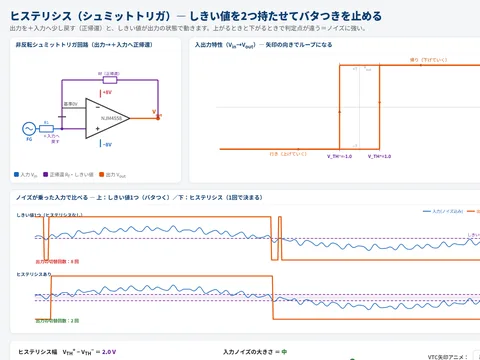
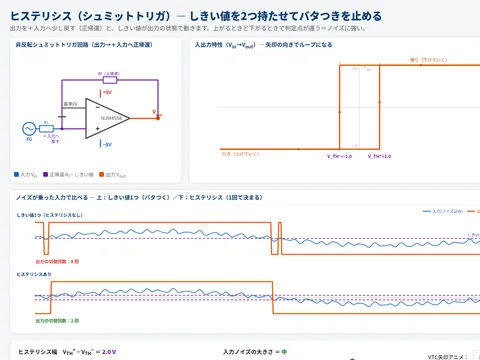
fix: シーソーの比喩を「高さ＝電圧」に統一し、ラベルの重なりを解消
- opamp_virtual_short: 見出しを「シーソーの自動バランス」から
  「電圧のシーソー（支点＝−入力を0Vに保つ）」へ。図が「支点＝−入力・
  両端＝Vin/Vout」のてこなのに、文言だけ「いつも水平」（両入力を
  両端に乗せる別の絵）のままだった
- comparator_basic: V_ref のラベルを波形より後に描く。先に描いていたので
  t=0 の出力立ち上がり（縦線）に塗り潰されていた
- comparator_hysteresis: しきい値ラベル（しきい値1つ・V_TH±）も同じ理由で
  入力の青線に隠れていたため、波形より後に描く
- index: comparator_balance のカード名を「天秤のアナロジー」から
  「シーソーのアナロジー」へ（教材側の統一に合わせる）
- 変更した5本のサムネイルを再生成

Claude-Session: https://claude.ai/code/session_017U7wY6jmmTQTaFFVDSNVcp

diff --git a/kairo/opamp_virtual_short.html b/kairo/opamp_virtual_short.html
@@ -3,7 +3,7 @@
 <head>
 <meta charset="UTF-8">
 <meta name="viewport" content="width=device-width, initial-scale=1.0">
-<title>仮想短絡＝シーソーの自動バランス（反転増幅）</title>
+<title>仮想短絡＝電圧のシーソー（反転増幅）</title>
 <style>
   :root{
     --in:#1565C0;      /* 入力・Vin・−入力 */
@@ -61,8 +61,8 @@
 </head>
 <body>
 <div class="wrap">
-  <h1>仮想短絡＝シーソーの自動バランス</h1>
-  <p class="sub">反転増幅回路：OPアンプは「2本の入力が同じ高さ（同じ電圧）」になるよう、出力を猛烈に素早く自動調整する。だから −入力 は + 入力（ここでは0V）と同じに見える＝仮想短絡。</p>
+  <h1>仮想短絡＝電圧のシーソー（支点＝−入力を0Vに保つ）</h1>
+  <p class="sub">反転増幅回路：梁の高さが電圧、支点が −入力。OPアンプは出力側の高さを猛烈に素早く動かして、支点を ＋入力（ここでは0V）と同じ高さに保つ＝仮想短絡。</p>
 
   <div class="tabs">
     <button class="tab active" data-mode="ideal">① 理想動作（仮想短絡と利得）</button>
@@ -73,7 +73,7 @@
 
   <div class="stage">
     <div class="panel">
-      <h2><span class="dot" style="background:var(--head)"></span>シーソー：いつも水平に保とうとする</h2>
+      <h2><span class="dot" style="background:var(--head)"></span>シーソー：支点（−入力）を0Vに保つ</h2>
       <svg id="seesaw" viewBox="0 0 460 320" aria-label="シーソー図"></svg>
     </div>
     <div class="panel">
@@ -123,76 +123,73 @@ const $ = id => document.getElementById(id);
 
 // ====== 計算 ======
 function compute(){
-  const a = gain * bwLoss;
-  let videal = a * (vin + Voff);
+  const ratio = Math.abs(gain);     // Rf/Rin
+  const a = gain * bwLoss;          // 信号に対する利得（③では帯域で目減りする）
+  // 入力オフセット Voff は「＋入力と−入力の電位差」なので、信号の利得ではなく
+  // ノイズゲイン (1+Rf/Rin) 倍されて、同符号で出力に現れる。
+  let videal = a * vin + (1 + ratio) * Voff;
   let vout = videal, clipped = false;
-  let vminus;
-  if(mode==="ideal"){
-    // 理想モードは飽和を適用しない（仮想短絡と利得の素直な対応だけを見せる）。
-    // 範囲設計上 vout はレール内に収まる。−入力は常に0V。
-    vminus = 0;
-  } else {
-    // ②③：レール飽和を適用
+  if(mode!=="ideal"){
+    // ②③：レール飽和を適用（①は仮想短絡と利得の対応だけを見せるので飽和させない）
     if(vout > RAIL){ vout = RAIL; clipped = true; }
     if(vout < -RAIL){ vout = -RAIL; clipped = true; }
-    if(clipped){
-      // 飽和時：仮想短絡が破れ、−入力が0Vからずれる（帰還点の電位を簡略表示）
-      // 節点電位 ≈ Vin と Vout を Rin:Rf で分圧した点（A=-Rf/Rin より Rf/Rin=|a|）
-      const ratio = Math.abs(gain); // Rf/Rin
-      vminus = (vin*ratio + vout) / (ratio + 1);
-    } else {
-      vminus = Voff; // 仮想短絡：+入力(0V)に対しオフセット分だけずれる
-    }
   }
-  return {a, videal, vout, clipped, vminus};
+  // −入力ノードの電位は抵抗2本の分圧そのもの（OPアンプの状態によらず常に成り立つ）。
+  // 理想動作では Vout=−(Rf/Rin)·Vin なので、この式はちょうど 0V を返す。
+  const vminus = (vin*ratio + vout) / (ratio + 1);
+  return {a, ratio, videal, vout, clipped, vminus};
 }
 
 // ====== シーソー描画 ======
 function drawSeesaw(s){
-  const cx=230, cy=170, halfLen=150;     // 支点と腕の長さ
-  // 傾き角：Vinの符号で傾けて「自動で水平へ戻る」を見せる。
-  // 理想＝即座に水平（傾き≈0）。飽和＝戻しきれず傾いたまま。
-  let tilt; // ラジアン、左下がり正
-  if(mode==="ideal"){ tilt = s.clipped?0:0; }
-  if(mode==="clip"){ tilt = s.clipped ? (s.vout>0? -0.16 : 0.16) : 0; }
-  if(mode==="real"){ tilt = Voff*0.05; } // わずかに傾く
-  // 描画ヘルパ
-  const lx = cx - halfLen*Math.cos(tilt), ly = cy + halfLen*Math.sin(tilt);
-  const rx = cx + halfLen*Math.cos(tilt), ry = cy - halfLen*Math.sin(tilt);
-  // 入力側(左)＝Vin、出力側(右)＝Vout の重り
+  // 電圧のシーソー（てこ）。梁の高さ＝電圧。
+  //   左端＝Vin ／ 支点＝−入力ノード ／ 右端＝Vout
+  // 支点は抵抗の内分点（左端から Rin/(Rin+Rf)）に置く。梁を左右の実電圧で
+  // 引けば、支点の高さは自動的に −入力の電位に一致する（分圧そのものだから）。
+  // したがって「支点が0Vのまま＝仮想短絡」「支点が浮く＝仮想短絡が破れる」が
+  // 図の上でそのまま読める。梁を水平に描くのは誤り（両端の電圧が違うため）。
+  const XL=70, XR=400, y0=158, K=17;      // 0V線の高さ／1V あたりの px
+  const XP = XL + (XR-XL)/(1+s.ratio);    // 支点＝Rin:Rf の内分点
+  const Y = v => y0 - K*v;
+  const yl=Y(vin), yr=Y(s.vout), yp=Y(s.vminus);
   const inLabel = (vin>=0?"+":"")+vin.toFixed(2)+"V";
   const outLabel = (s.vout>=0?"+":"")+s.vout.toFixed(2)+"V";
-  let extra="";
+  const vmLabel = (s.vminus>=0?"+":"")+s.vminus.toFixed(2)+"V";
+  let extra="", pivCol="#0D3C6E";
   if(mode==="clip" && s.clipped){
-    extra=`<text x="230" y="40" text-anchor="middle" font-size="14" fill="#b00020" font-weight="800">傾いたまま！ 出力がレールで止まり、水平に戻せない</text>`;
+    pivCol="#b00020";
+    extra=`<text x="230" y="26" text-anchor="middle" font-size="14" fill="#b00020" font-weight="800">支点が浮いたまま！ 出力がレールで止まり、戻せない</text>`;
+  } else if(mode==="ideal"){
+    extra=`<text x="230" y="26" text-anchor="middle" font-size="14" fill="#2E7D32" font-weight="800">支点は0Vのまま → −入力 ＝ +入力(0V)＝仮想短絡</text>`;
+  } else if(mode==="real"){
+    extra=`<text x="230" y="26" text-anchor="middle" font-size="13.5" fill="#0D3C6E" font-weight="700">オフセットの分だけ、支点が0Vからずれる</text>`;
+  } else {
+    extra=`<text x="230" y="26" text-anchor="middle" font-size="14" fill="#2E7D32" font-weight="800">支点は0Vのまま＝仮想短絡が成り立っている</text>`;
   }
-  if(mode==="ideal"){
-    extra=`<text x="230" y="40" text-anchor="middle" font-size="14" fill="#2E7D32" font-weight="800">いつも水平 → −入力 ＝ +入力(0V)＝仮想短絡</text>`;
-  }
-  if(mode==="real"){
-    extra=`<text x="230" y="40" text-anchor="middle" font-size="13.5" fill="#0D3C6E" font-weight="700">入力オフセットの分だけ、ほんの少し傾いた水平</text>`;
-  }
+  // 支点の注記は梁の下へ（左に寄りすぎたときだけ右へ逃がす）
+  const labX = Math.max(XP, 96);
   return `
   <rect x="0" y="0" width="460" height="320" fill="#fff"/>
   ${extra}
-  <!-- 水平の基準線 -->
-  <line x1="60" y1="${cy}" x2="400" y2="${cy}" stroke="#cfd6de" stroke-dasharray="5 5" stroke-width="1.5"/>
-  <text x="406" y="${cy+4}" font-size="11" fill="#9aa3ad">水平=0V</text>
+  <!-- 0Vの基準線 -->
+  <line x1="50" y1="${y0}" x2="410" y2="${y0}" stroke="#cfd6de" stroke-dasharray="5 5" stroke-width="1.5"/>
+  <text x="424" y="${y0+4}" font-size="11" fill="#9aa3ad">0V</text>
+  <!-- 腕（先に描き、支点と重りを上に載せる） -->
+  <line x1="${XL}" y1="${yl}" x2="${XR}" y2="${yr}" stroke="#3a4654" stroke-width="7" stroke-linecap="round"/>
   <!-- 支点（三角・仮想短絡点） -->
-  <polygon points="${cx},${cy} ${cx-16},${cy+30} ${cx+16},${cy+30}" fill="#0D3C6E"/>
-  <text x="${cx}" y="${cy+48}" text-anchor="middle" font-size="11.5" fill="#0D3C6E" font-weight="700">支点＝仮想短絡点（−入力）</text>
-  <!-- 腕 -->
-  <line x1="${lx}" y1="${ly}" x2="${rx}" y2="${ry}" stroke="#3a4654" stroke-width="7" stroke-linecap="round"/>
+  <polygon points="${XP},${yp} ${XP-13},${yp+26} ${XP+13},${yp+26}" fill="${pivCol}"/>
+  <text x="${labX}" y="${yp+44}" text-anchor="middle" font-size="11.5" fill="${pivCol}" font-weight="700">支点＝−入力 ${vmLabel}</text>
+  <text x="${labX}" y="${yp+59}" text-anchor="middle" font-size="10.5" fill="#7a8590">支点の位置＝Rin:Rf＝1:${s.ratio}</text>
   <!-- 左の重り：Vin -->
-  <circle cx="${lx}" cy="${ly}" r="20" fill="#1565C0"/>
-  <text x="${lx}" y="${ly-28}" text-anchor="middle" font-size="12" fill="#1565C0" font-weight="800">入力側</text>
-  <text x="${lx}" y="${ly+5}" text-anchor="middle" font-size="12" fill="#fff" font-weight="800">${inLabel}</text>
+  <circle cx="${XL}" cy="${yl}" r="19" fill="#1565C0"/>
+  <text x="${XL}" y="${yl-27}" text-anchor="middle" font-size="12" fill="#1565C0" font-weight="800">入力側</text>
+  <text x="${XL}" y="${yl+5}" text-anchor="middle" font-size="11.5" fill="#fff" font-weight="800">${inLabel}</text>
   <!-- 右の重り：Vout -->
-  <circle cx="${rx}" cy="${ry}" r="20" fill="#E65100"/>
-  <text x="${rx}" y="${ry-28}" text-anchor="middle" font-size="12" fill="#E65100" font-weight="800">出力側</text>
-  <text x="${rx}" y="${ry+5}" text-anchor="middle" font-size="11.5" fill="#fff" font-weight="800">${outLabel}</text>
-  <!-- 自動調整の矢印 -->
-  <text x="${rx}" y="${ry+ (s.vout>=0?42:-40)}" text-anchor="middle" font-size="11" fill="#E65100">↕ 自動調整</text>
+  <circle cx="${XR}" cy="${yr}" r="19" fill="#E65100"/>
+  <text x="${XR}" y="${yr-27}" text-anchor="middle" font-size="12" fill="#E65100" font-weight="800">出力側</text>
+  <text x="${XR}" y="${yr+5}" text-anchor="middle" font-size="11.5" fill="#fff" font-weight="800">${outLabel}</text>
+  <!-- 自動調整の矢印（出力側は常に円の下へ。上に置くと「出力側」の文字と重なる） -->
+  <text x="${XR}" y="${yr+34}" text-anchor="middle" font-size="11" fill="#E65100">↕ 自動調整</text>
   `;
 }
 
@@ -253,7 +250,7 @@ function drawCircuit(s){
   <text x="${outX}" y="140" text-anchor="middle" font-size="12" fill="#E65100" font-weight="800">Vout</text>
   <!-- 数値ボックス -->
   <rect x="300" y="240" width="150" height="62" rx="9" fill="#fff7f0" stroke="#E65100" stroke-width="1.5"/>
-  <text x="375" y="260" text-anchor="middle" font-size="12" fill="#444">Vout = A · Vin</text>
+  <text x="375" y="260" text-anchor="middle" font-size="12" fill="#444">${mode==="real" ? "Vout（オフセット込み）" : "Vout = A · Vin"}</text>
   <text x="375" y="282" text-anchor="middle" font-size="15" fill="#E65100" font-weight="800">${(s.vout>=0?"+":"")+s.vout.toFixed(2)} V</text>
   <text x="375" y="297" text-anchor="middle" font-size="10.5" fill="#7a8590">A=${aTxt}, Vin=${(vin>=0?"+":"")+vin.toFixed(2)}V</text>
   `;
@@ -285,13 +282,14 @@ function noteText(s){
   if(mode==="clip"){
     return `理想式では Vout=${s.videal.toFixed(2)}V ですが、出力は電源レール（ここでは ±${RAIL}V）より外へは出られません。`
       +(s.clipped
-        ?`<b>いまレールに張り付いています（${s.vout.toFixed(2)}V）。</b>こうなると出力をこれ以上動かせず、シーソーを水平に戻せない＝<b>仮想短絡が破れます</b>。`
+        ?`<b>いまレールに張り付いています（${s.vout.toFixed(2)}V）。</b>こうなると出力をこれ以上動かせず、支点（−入力）を0Vに戻せない＝<b>仮想短絡が破れます</b>。`
         :`Vinを大きくして A·Vin が ±${RAIL}V を超えると張り付きます。`)
       +`実機ではこの飽和を「波形の頭が平らに潰れる」形で必ず観察します。`;
   }
   // real
-  return `現実のNJM4558は理想と少しずれます。<b>入力オフセット電圧</b>のせいで Vin=0 でも出力がわずかにずれ、`
-    +`<b>有限の帯域</b>のせいで入力が速くなる（高周波）ほど利得が落ちます（いまの利得係数 ${bwLoss.toFixed(2)}）。`
+  return `現実のNJM4558は理想と少しずれます。<b>入力オフセット電圧</b>（ここでは ${(Voff*1000).toFixed(0)}mV）は`
+    +`信号の利得ではなく <b>(1+Rf/Rin)=${(1+s.ratio)}倍</b> されて出力に現れるので、Vin=0 でも出力が ${((1+s.ratio)*Voff).toFixed(2)}V ずれます。`
+    +`さらに<b>有限の帯域</b>のせいで、入力が速くなる（高周波）ほど信号の利得が落ちます（いまの利得係数 ${bwLoss.toFixed(2)}）。`
     +`このズレを「つまずき」でなく「測って考える対象」として実験で確かめます。`;
 }
 
@@ -311,8 +309,8 @@ function render(){
 
 // ====== モード切替 ======
 const modeLines = {
-  ideal:"スライダーでVinを動かすと、シーソーは即座に水平へ。−入力は常に0Vに見え、Voutは抵抗比で決まります。",
-  clip:"Vinを大きく振ってみてください。理想式の出力がレール(±"+RAIL+"V)を超えると、出力が張り付いて水平に戻せなくなります。",
+  ideal:"スライダーでVinを動かすと、梁は傾いても支点は0Vのまま。−入力は常に0Vに見え、Voutは抵抗比で決まります。",
+  clip:"Vinを大きく振ってみてください。理想式の出力がレール(±"+RAIL+"V)を超えると、出力が張り付いて支点を0Vに戻せなくなります。",
   real:"理想からのズレ（オフセット・帯域）。Vin=0でも出力が少しずれ、速い入力ほど利得が落ちます。"
 };
 document.querySelectorAll(".tab").forEach(t=>{

diff --git a/kairo/opamp_noninverting.html b/kairo/opamp_noninverting.html
@@ -130,50 +130,73 @@ function compute(){
   return {a, videal, vout, clipped, vminus};
 }
 
-// シーソー：水平基準=0V。支点(=−入力)が Vin の高さへ持ち上がり、両端も Vin にそろう＝水平のまま上下動。
+// 電圧のシーソー（てこ）。反転増幅の図と同じ描き方に揃えてある。
+//   左端＝Rin の下端（GND・0V） ／ 支点＝−入力ノード ／ 右端＝Vout
+// 支点は抵抗の内分点（左端から Rin/(Rin+Rf)＝1/A）に置く。梁を左端0Vと右端Vout
+// で引けば、支点の高さは自動的に −入力の電位になる。仮想短絡が効いていれば
+// それが Vin と一致し、飽和すると Vin に届かなくなる。
+// ※ 支点と両端に同じ「−入力」を割り当てるのは誤り（支点だけが−入力）。
 function drawSeesaw(s){
-  const cx=230, baseY=190, halfLen=150;
-  const scale=70; // V→px
-  // 支点の高さ = −入力電位（理想ではVin）。バーは水平（両入力が同電位）。
-  const pivotY = baseY - s.vminus*scale;
-  // 飽和時は両端が等しくならない（−入力≠＋入力）→バーを少し傾ける
-  let tilt=0;
-  if(s.clipped){ tilt = (vin - s.vminus)*0.06; }
-  const ly = pivotY + halfLen*Math.sin(tilt);
-  const ry = pivotY - halfLen*Math.sin(tilt);
-  const lx = cx - halfLen*Math.cos(tilt);
-  const rx = cx + halfLen*Math.cos(tilt);
-  const plusLabel = (vin>=0?"+":"")+vin.toFixed(2)+"V";
-  const minusLabel = (s.vminus>=0?"+":"")+s.vminus.toFixed(2)+"V";
-  let head;
-  if(mode==="ideal"||mode==="follower"){
-    head=`<text x="230" y="34" text-anchor="middle" font-size="13.5" fill="#2E7D32" font-weight="800">−入力 ＝ ＋入力 ＝ Vin（支点ごと持ち上がる）</text>`;
-  } else {
-    head= s.clipped
-      ?`<text x="230" y="34" text-anchor="middle" font-size="13.5" fill="#b00020" font-weight="800">飽和：−入力が Vin に届かない＝仮想短絡が破れる</text>`
-      :`<text x="230" y="34" text-anchor="middle" font-size="13.5" fill="#2E7D32" font-weight="800">−入力 ＝ ＋入力 ＝ Vin</text>`;
+  const XL=70, XR=400, y0=190, K=17;      // 0V線の高さ／1V あたりの px
+  const rf = s.a - 1;                      // Rf/Rin（A=1+Rf/Rin）
+  const Y = v => y0 - K*v;
+  const yl=Y(0), yr=Y(s.vout), yvin=Y(vin);
+  const XP = XL + (XR-XL)/(1+rf);          // 支点＝Rin:Rf の内分点（フォロワは右端）
+  const yp = Y(s.vminus);
+  const outLabel = (s.vout>=0?"+":"")+s.vout.toFixed(2)+"V";
+  const vmLabel = (s.vminus>=0?"+":"")+s.vminus.toFixed(2)+"V";
+
+  if(mode==="follower"){
+    // Rf=0・Rin なし＝てこが働かない。出力も−入力も Vin と同じ高さで水平。
+    return `
+    <rect x="0" y="0" width="460" height="320" fill="#fff"/>
+    <text x="230" y="34" text-anchor="middle" font-size="13.5" fill="#2E7D32" font-weight="800">Rf=0 → てこが働かず、出力＝−入力＝Vin（利得1）</text>
+    <line x1="50" y1="${y0}" x2="410" y2="${y0}" stroke="#cfd6de" stroke-dasharray="5 5" stroke-width="1.5"/>
+    <text x="424" y="${y0+4}" font-size="11" fill="#9aa3ad">0V</text>
+    <line x1="${XL}" y1="${yvin}" x2="${XR}" y2="${yvin}" stroke="#3a4654" stroke-width="7" stroke-linecap="round"/>
+    <polygon points="235,${yvin} 222,${yvin+26} 248,${yvin+26}" fill="#0D3C6E"/>
+    <text x="235" y="${yvin+44}" text-anchor="middle" font-size="11.5" fill="#0D3C6E" font-weight="700">支点＝−入力 ${vmLabel}（出力と直結）</text>
+    <circle cx="${XL}" cy="${yvin}" r="19" fill="#D32F2F"/>
+    <text x="${XL}" y="${yvin-27}" text-anchor="middle" font-size="12" fill="#D32F2F" font-weight="800">＋入力</text>
+    <text x="${XL}" y="${yvin+5}" text-anchor="middle" font-size="11.5" fill="#fff" font-weight="800">${(vin>=0?"+":"")+vin.toFixed(2)}V</text>
+    <circle cx="${XR}" cy="${yvin}" r="19" fill="#E65100"/>
+    <text x="${XR}" y="${yvin-27}" text-anchor="middle" font-size="12" fill="#E65100" font-weight="800">出力側</text>
+    <text x="${XR}" y="${yvin+5}" text-anchor="middle" font-size="11.5" fill="#fff" font-weight="800">${outLabel}</text>
+    `;
   }
+
+  let head, pivCol="#0D3C6E", plusLine="";
+  if(s.clipped){
+    pivCol="#b00020";
+    head=`<text x="230" y="34" text-anchor="middle" font-size="13.5" fill="#b00020" font-weight="800">飽和：支点（−入力）が Vin に届かない＝仮想短絡が破れる</text>`;
+    // ＋入力の高さを引いて、支点が届いていないことを見せる
+    plusLine=`<line x1="${XL}" y1="${yvin}" x2="${XR}" y2="${yvin}" stroke="#2E7D32" stroke-dasharray="4 4" stroke-width="1.5"/>
+    <text x="300" y="${yvin + (vin>=0?-7:16)}" text-anchor="middle" font-size="10.5" fill="#2E7D32" font-weight="700">＋入力＝Vin ${(vin>=0?"+":"")+vin.toFixed(2)}V</text>`;
+  } else {
+    head=`<text x="230" y="34" text-anchor="middle" font-size="13.5" fill="#2E7D32" font-weight="800">支点が Vin の高さへ持ち上がる → −入力 ＝ ＋入力 ＝ Vin</text>`;
+  }
+  const labX = Math.max(XP, 100);
   return `
   <rect x="0" y="0" width="460" height="320" fill="#fff"/>
   ${head}
-  <line x1="50" y1="${baseY}" x2="410" y2="${baseY}" stroke="#cfd6de" stroke-dasharray="5 5" stroke-width="1.5"/>
-  <text x="414" y="${baseY+4}" font-size="11" fill="#9aa3ad">0V</text>
-  <!-- 持ち上がり矢印 -->
-  <line x1="60" y1="${baseY}" x2="60" y2="${pivotY}" stroke="#2E7D32" stroke-width="1.5" stroke-dasharray="3 3"/>
-  <text x="70" y="${(baseY+pivotY)/2+4}" font-size="10.5" fill="#2E7D32">Vinの高さ</text>
-  <!-- 支点 -->
-  <polygon points="${cx},${pivotY} ${cx-16},${pivotY+30} ${cx+16},${pivotY+30}" fill="#0D3C6E"/>
-  <text x="${cx}" y="${pivotY+48}" text-anchor="middle" font-size="11.5" fill="#0D3C6E" font-weight="700">支点＝−入力（仮想短絡でVinに一致）</text>
-  <!-- バー -->
-  <line x1="${lx}" y1="${ly}" x2="${rx}" y2="${ry}" stroke="#3a4654" stroke-width="7" stroke-linecap="round"/>
-  <!-- ＋入力側 -->
-  <circle cx="${lx}" cy="${ly}" r="20" fill="#D32F2F"/>
-  <text x="${lx}" y="${ly-28}" text-anchor="middle" font-size="12" fill="#D32F2F" font-weight="800">＋入力</text>
-  <text x="${lx}" y="${ly+5}" text-anchor="middle" font-size="11.5" fill="#fff" font-weight="800">${plusLabel}</text>
-  <!-- −入力側 -->
-  <circle cx="${rx}" cy="${ry}" r="20" fill="#2E7D32"/>
-  <text x="${rx}" y="${ry-28}" text-anchor="middle" font-size="12" fill="#2E7D32" font-weight="800">−入力</text>
-  <text x="${rx}" y="${ry+5}" text-anchor="middle" font-size="11.5" fill="#fff" font-weight="800">${minusLabel}</text>
+  <line x1="50" y1="${y0}" x2="410" y2="${y0}" stroke="#cfd6de" stroke-dasharray="5 5" stroke-width="1.5"/>
+  <text x="424" y="${y0+4}" font-size="11" fill="#9aa3ad">0V</text>
+  ${plusLine}
+  <!-- 梁（先に描き、支点と重りを上に載せる） -->
+  <line x1="${XL}" y1="${yl}" x2="${XR}" y2="${yr}" stroke="#3a4654" stroke-width="7" stroke-linecap="round"/>
+  <!-- 支点＝−入力ノード -->
+  <polygon points="${XP},${yp} ${XP-13},${yp+26} ${XP+13},${yp+26}" fill="${pivCol}"/>
+  <text x="${labX}" y="${yp+44}" text-anchor="middle" font-size="11.5" fill="${pivCol}" font-weight="700">支点＝−入力 ${vmLabel}</text>
+  <text x="${labX}" y="${yp+59}" text-anchor="middle" font-size="10.5" fill="#7a8590">支点の位置＝Rin:Rf＝1:${rf}</text>
+  <!-- 左端＝Rin の下端（GND） -->
+  <circle cx="${XL}" cy="${yl}" r="19" fill="#9E9E9E"/>
+  <text x="${XL}" y="${yl-27}" text-anchor="middle" font-size="12" fill="#7a8590" font-weight="800">Rin下端</text>
+  <text x="${XL}" y="${yl+5}" text-anchor="middle" font-size="11.5" fill="#fff" font-weight="800">GND</text>
+  <!-- 右端＝Vout -->
+  <circle cx="${XR}" cy="${yr}" r="19" fill="#E65100"/>
+  <text x="${XR}" y="${yr-27}" text-anchor="middle" font-size="12" fill="#E65100" font-weight="800">出力側</text>
+  <text x="${XR}" y="${yr+5}" text-anchor="middle" font-size="11.5" fill="#fff" font-weight="800">${outLabel}</text>
+  <text x="${XR}" y="${yr+34}" text-anchor="middle" font-size="11" fill="#E65100">↕ 自動調整</text>
   `;
 }
 

diff --git a/kairo/comparator_hysteresis.html b/kairo/comparator_hysteresis.html
@@ -282,17 +282,18 @@ function drawWave(){
     function Y(v){return mid-(v/RAIL)*yspan;}
     h+=`<line x1="${x0}" y1="${mid}" x2="${x1}" y2="${mid}" stroke="#ddd"/>`;
     h+=`<text x="6" y="${yTop+10}" font-size="11" font-weight="700" fill="#0D3C6E">${title}</text>`;
-    // しきい値線
+    // しきい値線。ラベルは波形より後で描く（先に描くと入力の青線に塗り潰される）
+    let thrLab='';
     if(showThr==='single'){
       h+=`<line x1="${x0}" y1="${Y(0)}" x2="${x1}" y2="${Y(0)}" stroke="#6A1B9A" stroke-width="1.4" stroke-dasharray="6 4"/>`;
-      h+=`<text x="${x1-2}" y="${Y(0)-5}" font-size="10" text-anchor="end" fill="#6A1B9A" paint-order="stroke" stroke="#fff" stroke-width="3.5">しきい値（1つ・0V）</text>`;
+      thrLab+=`<text x="${x1-2}" y="${Y(0)-5}" font-size="10" text-anchor="end" fill="#6A1B9A" paint-order="stroke" stroke="#fff" stroke-width="3.5">しきい値（1つ・0V）</text>`;
     }else{
       h+=`<line x1="${x0}" y1="${Y(tp)}" x2="${x1}" y2="${Y(tp)}" stroke="#6A1B9A" stroke-width="1.4" stroke-dasharray="6 4"/>`;
       h+=`<line x1="${x0}" y1="${Y(tm)}" x2="${x1}" y2="${Y(tm)}" stroke="#6A1B9A" stroke-width="1.4" stroke-dasharray="6 4"/>`;
       // 帯
       h+=`<rect x="${x0}" y="${Y(tp)}" width="${x1-x0}" height="${Y(tm)-Y(tp)}" fill="#6A1B9A" opacity="0.06"/>`;
-      h+=`<text x="${x1-2}" y="${Y(tp)-5}" font-size="10" text-anchor="end" fill="#6A1B9A" paint-order="stroke" stroke="#fff" stroke-width="3.5">V_TH⁺</text>`;
-      h+=`<text x="${x1-2}" y="${Y(tm)+12}" font-size="10" text-anchor="end" fill="#6A1B9A" paint-order="stroke" stroke="#fff" stroke-width="3.5">V_TH⁻</text>`;
+      thrLab+=`<text x="${x1-2}" y="${Y(tp)-5}" font-size="10" text-anchor="end" fill="#6A1B9A" paint-order="stroke" stroke="#fff" stroke-width="3.5">V_TH⁺</text>`;
+      thrLab+=`<text x="${x1-2}" y="${Y(tm)+12}" font-size="10" text-anchor="end" fill="#6A1B9A" paint-order="stroke" stroke="#fff" stroke-width="3.5">V_TH⁻</text>`;
     }
     // 入力
     let pin='';for(let i=0;i<=N;i++)pin+=(i?'L':'M')+X(i/N).toFixed(1)+' '+Y(inp[i]).toFixed(1)+' ';
@@ -300,6 +301,7 @@ function drawWave(){
     // 出力
     let po='';for(let i=0;i<=N;i++)po+=(i?'L':'M')+X(i/N).toFixed(1)+' '+Y(out[i]).toFixed(1)+' ';
     h+=`<path d="${po}" fill="none" stroke="#E65100" stroke-width="2.6"/>`;
+    h+=thrLab;
     // エッジ数
     const ec=countEdges(out);
     const col = (showThr==='single' && ec>2) ? '#D32F2F' : '#2E7D32';

diff --git a/kairo/cmos_measure.html b/kairo/cmos_measure.html
@@ -6,7 +6,7 @@
 <style>body{margin:0;background:#fff;font-family:"Noto Sans CJK JP",sans-serif;}</style>
 </head>
 <body>
-<svg id="fig" xmlns="http://www.w3.org/2000/svg" viewBox="0 0 820 670" width="820" height="670">
+<svg id="fig" xmlns="http://www.w3.org/2000/svg" viewBox="0 0 820 638" width="820" height="638">
   <style>
     .vdd{stroke:#D32F2F;} .nmos{stroke:#2E7D32;} .pmos{stroke:#6A1B9A;}
     .in{stroke:#1565C0;} .mark{stroke:#E65100;} .gnd{stroke:#444;}
@@ -115,12 +115,11 @@
   <line class="wire gnd" x1="366" y1="564" x2="374" y2="564"/>
   <text x="435" y="556" class="small">GND（VSS, pin7 = N基板）　電源①－・電源②－・pin7 をすべて共通</text>
 
-  <!-- 注記は配線帯の外（GND母線より下）へ。回路の縦線を隠さないため -->
-  <rect x="30" y="576" width="400" height="80" rx="6" fill="#f3f4f6" stroke="#9E9E9E" stroke-width="1.4"/>
-  <text x="44" y="597" class="lbl" fill="#455a64">未使用ゲートの処理（開放禁止）</text>
-  <text x="44" y="615" class="small">・Q3 のゲート pin10 →使わないなら VSS(pin7) か VDD(pin14) に固定</text>
-  <text x="44" y="631" class="small">・Q2(N)・Q3 など使わない素子のゲートも開放にしない</text>
-  <text x="44" y="647" class="small">　（放置すると誤動作・IC発熱の原因）</text>
+  <!-- 注記は配線帯の外（GND母線より下）へ。回路の縦線を隠さないため。
+       縦に伸ばすと図が縦長になってスライド上で小さくなるので、横長2行に収める -->
+  <rect x="30" y="572" width="760" height="52" rx="6" fill="#f3f4f6" stroke="#9E9E9E" stroke-width="1.4"/>
+  <text x="44" y="592" class="small" fill="#455a64">未使用ゲートの処理（開放禁止）：Q3 のゲート pin10 は、使わないなら VSS(pin7) か VDD(pin14) に固定する</text>
+  <text x="44" y="611" class="small" fill="#455a64">Q2(N)・Q3 など使わない素子のゲートも開放にしない（放置すると誤動作・IC発熱の原因）</text>
 </svg>
 </body>
 </html>

diff --git a/kairo/comparator_basic.html b/kairo/comparator_basic.html
@@ -226,9 +226,10 @@ function drawWave(vref){
   h += `<text x="6" y="${midY+4}" font-size="10" fill="#999">0</text>`;
   // Vref 線（紫破線）
   h += `<line x1="${x0}" y1="${Y(vref)}" x2="${x1}" y2="${Y(vref)}" stroke="#6A1B9A" stroke-width="1.6" stroke-dasharray="6 4"/>`;
-  // ラベルは左端に置く（右端は凡例の位置）。上端に寄ったときは線の下へ回し、白フチで波形から浮かせる
+  // ラベルは左端に置く（右端は凡例の位置）。上端に寄ったときは線の下へ回す。
+  // 描画は波形より後（下の方）で行う。先に描くと出力の立ち上がり（t=0 の縦線）に塗り潰される
   const yref=Y(vref), yreflab=(yref-y0<18)? yref+14 : yref-5;
-  h += `<text x="${x0+6}" y="${yreflab}" font-size="11" font-weight="700" fill="#6A1B9A" paint-order="stroke" stroke="#fff" stroke-width="3.5">V_ref=${(vref>=0?'+':'')+vref.toFixed(1)}V</text>`;
+  const reflab = `<text x="${x0+16}" y="${yreflab}" font-size="11" font-weight="700" fill="#6A1B9A" paint-order="stroke" stroke="#fff" stroke-width="3.5">V_ref=${(vref>=0?'+':'')+vref.toFixed(1)}V</text>`;
   // 入力 = 振幅5Vの正弦（青）
   const A=5, N=300;
   let pin='', pout='';
@@ -241,6 +242,7 @@ function drawWave(vref){
   }
   h += `<path d="${pout}" fill="none" stroke="#E65100" stroke-width="3"/>`;
   h += `<path d="${pin}" fill="none" stroke="#1565C0" stroke-width="2.4"/>`;
+  h += reflab;
   // 凡例
   h += `<rect x="${x1-210}" y="${y0+2}" width="200" height="20" rx="4" fill="#fff" opacity="0.85"/>`;
   h += `<line x1="${x1-200}" y1="${y0+12}" x2="${x1-180}" y2="${y0+12}" stroke="#1565C0" stroke-width="2.4"/>`;

diff --git a/index.html b/index.html
@@ -329,7 +329,7 @@
     </a></li>
     <li><a href="kairo/comparator_balance.html">
       <span class="thumb"><img src="thumbs/kairo/comparator_balance.webp" alt="" width="480" height="360" loading="lazy" decoding="async"><span class="badge">図解</span></span>
-      <span class="t">天秤のアナロジー</span>
+      <span class="t">シーソーのアナロジー</span>
     </a></li>
     <li><a href="kairo/comparator_measure.html">
       <span class="thumb"><img src="thumbs/kairo/comparator_measure.webp" alt="" width="480" height="360" loading="lazy" decoding="async"><span class="badge">図解</span></span>
